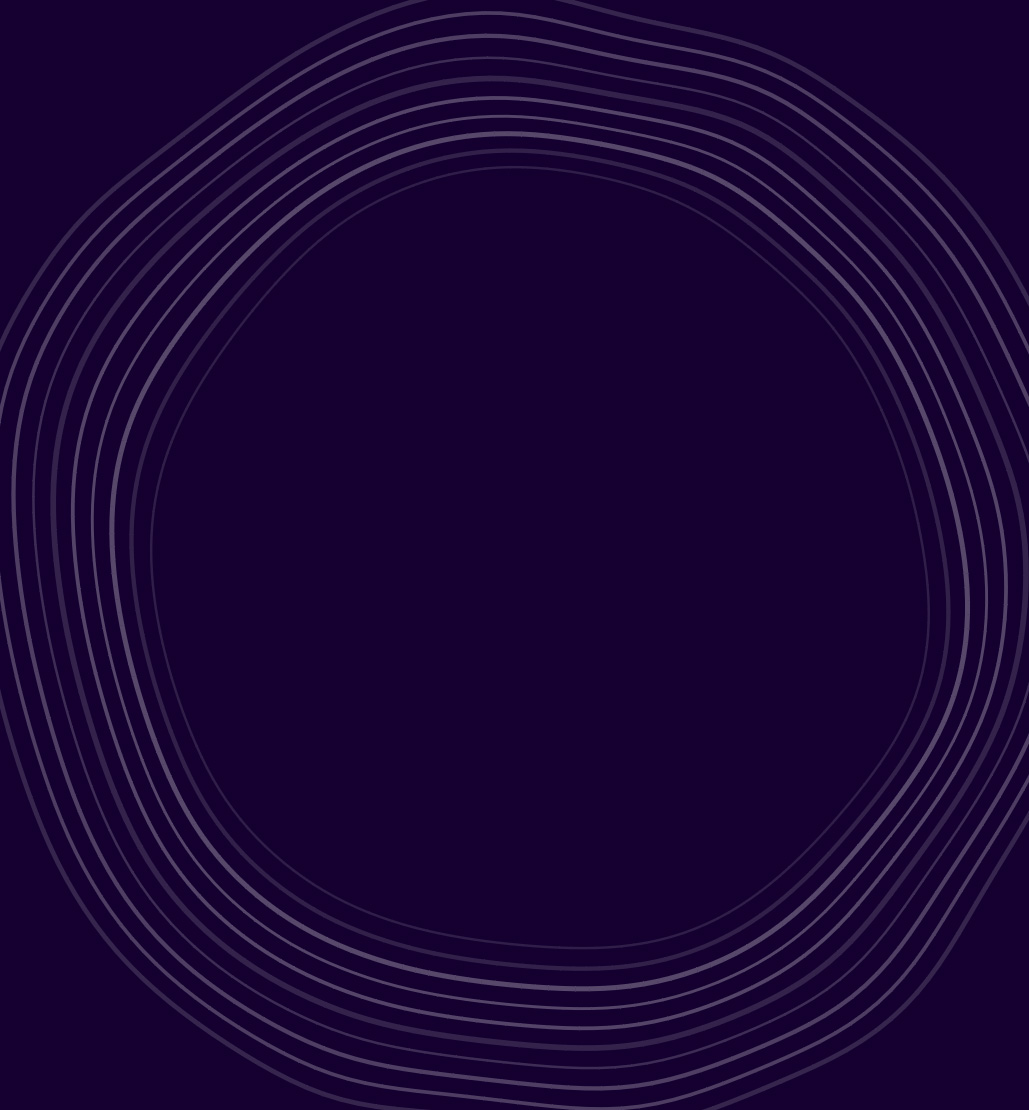
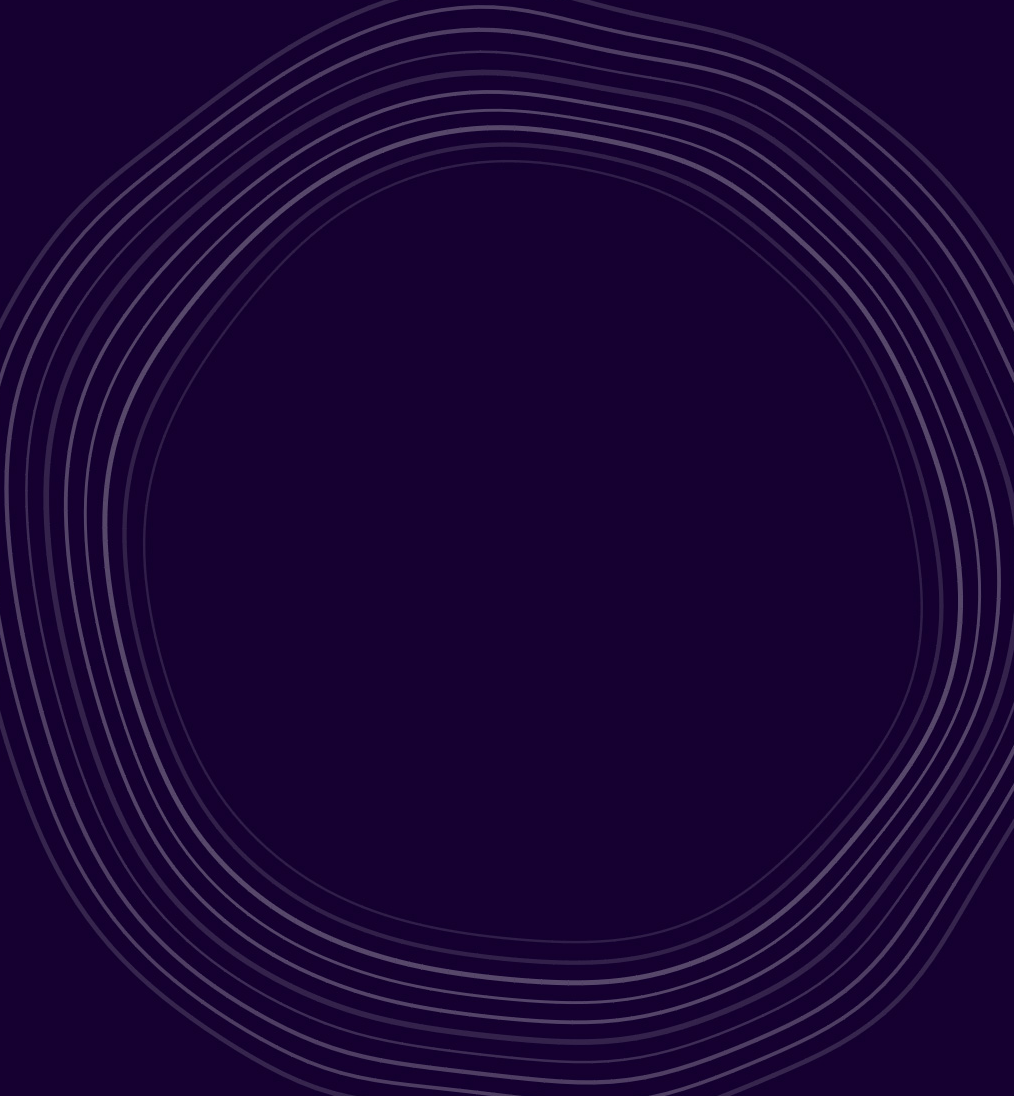
more design

Changed region(s): [[0.0, 0.0, 1.0, 1.0]]

diff --git a/client/styles/index.scss b/client/styles/index.scss
@@ -153,6 +153,54 @@ aside {
       font-family: 'Playfair';
       font-weight: 900;
     }
+
+    .time {
+      display: flex;
+      align-items: center;
+      margin-bottom: 15px;
+      font-size: 1rem;
+      svg {
+        display: block;
+        width: 25px;
+        height: 25px;
+        margin-right: 5px;
+      }
+    }
+
+    .back-btn {
+      width: 40px;
+      height: 40px;
+      border: 3px solid black;
+      border-radius: 50%;
+      position: relative;
+      &:after {
+        content: 'BACK';
+        position: absolute;
+        display: block;
+        top: 8px;
+        left: 45px;
+        font-size: 1rem;
+        font-weight: 700;
+        opacity: 0;
+        transform: translateX(5px);
+        transition: opacity 0.3s ease, transform 0.3s ease;
+        pointer-events: none;
+      }
+      svg {
+        display: block;
+        transition: transform 0.25s ease;
+      }
+
+      &:hover {
+        svg {
+          transform: scale(1.2);
+        }
+        &:after {
+          opacity: 1;
+          transform: translateX(0px);
+        }
+      }
+    }
   }
 }
 
@@ -184,7 +232,7 @@ ul {
 
   .item {
     overflow: hidden;
-    perspective: 700px;
+    // perspective: 700px;
 
     img {
       width: 100%;
@@ -193,8 +241,54 @@ ul {
       backface-visibility: hidden;
     }
 
+    .icon {
+      position: relative;
+      width: 100%;
+      height: 100%;
+      display: flex;
+      justify-content: center;
+      align-items: center;
+      transition: transform 0.25s ease-out;
+
+      &:before {
+        content: '';
+        position: absolute;
+        width: 100%;
+        height: 100%;
+        opacity: 0.05;
+      }
+
+      svg {
+        width: 40%;
+        opacity: 0.6;
+        // fill: white;
+      }
+
+      &.light {
+        svg {
+          fill: white;
+        }
+
+        &:before {
+          background: url('../media/images/hexagon-black.png') center center;
+          background-size: 20% auto;
+        }
+      }
+
+      &.dark {
+        svg {
+          fill: black;
+        }
+
+        &:before {
+          background: url('../media/images/hexagon-white.png') center center;
+          background-size: 20% auto;
+        }
+      }
+    }
+
     &:hover {
-      img {
+      img, .icon {
         transition: transform 0.35s $ease-out-back;
         transform: scale(1.15);
       }
@@ -220,7 +314,28 @@ ul {
     position: absolute;
     top: 0;
     width: 100%;
-    background: #efefef;
+    min-height: 100%;
+    background: #f8f8f8;
+    padding: 60px;
+
+    .content {
+      width: 100%;
+      max-width: 850px;
+
+      li {
+        &:before {
+          content: '–';
+          margin-right: 0.5em;
+        }
+      }
+    }
+
+    a {
+      color: currentColor;
+      &:hover {
+        text-decoration: none;
+      }
+    }
   }
 }
 
@@ -249,6 +364,11 @@ h3 {
   font-size: 1.8rem;
   margin-bottom: 1rem;
   margin-top: 1rem;
+}
+
+pre, code {
+  font-size: 1.4rem;
+  margin-bottom: 2rem;
 }
 
 .view {

diff --git a/client/src/views/ProjectPage.js b/client/src/views/ProjectPage.js
@@ -1,13 +1,17 @@
 import gsap from 'gsap';
 import { TEMPLATE } from '../config/constants';
 
+import hljs from 'highlight.js/lib/core';
+import javascript from 'highlight.js/lib/languages/javascript';
+hljs.registerLanguage('javascript', javascript);
+import 'highlight.js/styles/github.css';
+
 export default class ProjectPage {
   constructor(project, target) {
     console.log('new item', project, target);
 
-    this.target = target;
-
     const { template } = project;
+    this.target = target;
 
     switch (template) {
       case TEMPLATE.IFRAME:
@@ -26,25 +30,42 @@ export default class ProjectPage {
 
   createNoteTemplate(project, target) {
     const { title, content } = project;
-    const container = document.createElement('div');
-    const contentContainer = document.createElement('div');
-    const h1 = document.createElement('h1');
+    const onAnimComplete = () => {
+      const container = document.createElement('div');
+      const contentContainer = document.createElement('div');
+      const h1 = document.createElement('h1');
 
-    h1.textContent = title;
-    container.classList.add('content');
-    container.appendChild(h1);
-    container.appendChild(contentContainer);
+      h1.textContent = title;
+      container.classList.add('content');
+      container.appendChild(h1);
+      container.appendChild(contentContainer);
 
-    // add content
-    contentContainer.innerHTML = content;
+      // add content
+      contentContainer.innerHTML = content;
+      this.el.appendChild(container);
+
+      // setTimeout(() => {
+      //   hljs.initHighlightingOnLoad();
+      // }, 1000);
+      // console.log('yo');
+
+      document.querySelectorAll('pre code').forEach((block) => {
+        hljs.highlightBlock(block);
+      });
+
+      gsap.from(container, { duration: 0.7, y: 15, opacity: 0 });
+    };
 
     this.el = document.createElement('div');
     this.el.classList.add('project-note');
-    this.el.appendChild(container);
-
     target.appendChild(this.el);
 
-    console.log('crated');
+    gsap.from(this.el, {
+      duration: 0.6,
+      scale: 0.5,
+      ease: 'power4.inOut',
+      onComplete: onAnimComplete,
+    });
 
     gsap.from(this.el, { duration: 0.3, opacity: 0 });
   }
@@ -68,6 +89,7 @@ export default class ProjectPage {
       onComplete: () => {
         this.el.appendChild(iframe);
         iframe.contentWindow.focus();
+        gsap.from(iframe, { duration: 1, opacity: 0 });
       },
     });
 

diff --git a/client/src/views/Sidebar.js b/client/src/views/Sidebar.js
@@ -1,4 +1,8 @@
 import gsap from 'gsap';
+import { TEMPLATE } from '../config/constants';
+import backIcon from '../icons/back';
+import clockIcon from '../icons/clock';
+import { router } from '../framework/App';
 
 const NAV_IN_DELAY = 0.5;
 
@@ -27,23 +31,49 @@ class Sidebar {
     });
   }
 
-  showSidebar(title, description, date) {
+  showSidebar(project) {
+    const { title, description, published_at, template } = project;
+
     this.nav.classList.add('hide');
     this.sidebarEl = document.createElement('div');
-
-    const h3 = document.createElement('h3');
-    const p = document.createElement('p');
-    const dateEl = document.createElement('p');
-
-    dateEl.classList.add('publish-date');
-    h3.textContent = title;
-    p.textContent = description;
-    dateEl.textContent = date;
-
     this.sidebarEl.classList.add('sidebar');
-    this.sidebarEl.appendChild(h3);
-    this.sidebarEl.appendChild(p);
+
+    if (template === TEMPLATE.NOTE) {
+      const { content } = project;
+      const len = content.split(' ').length;
+      const readingTime = Math.ceil(len / 200);
+      const clockEl = document.createElement('div');
+      const label = document.createElement('span');
+      clockEl.innerHTML = clockIcon;
+      clockEl.appendChild(label);
+      clockEl.classList.add('time');
+      label.textContent = `${readingTime} minute read`;
+      this.sidebarEl.appendChild(clockEl);
+    } else {
+      const h3 = document.createElement('h3');
+      const p = document.createElement('p');
+
+      h3.textContent = title;
+      p.textContent = description;
+
+      this.sidebarEl.appendChild(h3);
+      this.sidebarEl.appendChild(p);
+    }
+
+    // date
+    const dateEl = document.createElement('p');
+    dateEl.classList.add('publish-date');
+    dateEl.textContent = published_at;
     this.sidebarEl.appendChild(dateEl);
+
+    // back button
+    const backBtn = document.createElement('button');
+    backBtn.innerHTML = backIcon;
+    backBtn.classList.add('back-btn');
+    this.sidebarEl.appendChild(backBtn);
+    backBtn.addEventListener('click', () => {
+      router.navigate('/');
+    });
 
     this.el.appendChild(this.sidebarEl);
 

diff --git a/client/src/icons/memo.js b/client/src/icons/memo.js
@@ -1,0 +1,3 @@
+export default `
+<svg viewBox="0 0 100 100"><switch><g><path d="M5273.1 2400.1v-2c0-2.8-5-4-9.7-4s-9.7 1.3-9.7 4v2c0 1.8.7 3.6 2 4.9l5 4.9c.3.3.4.6.4 1v6.4c0 .4.2.7.6.8l2.9.9c.5.1 1-.2 1-.8v-7.2c0-.4.2-.7.4-1l5.1-5c1.3-1.3 2-3.1 2-4.9zm-9.7-.1c-4.8 0-7.4-1.3-7.5-1.8.1-.5 2.7-1.8 7.5-1.8s7.3 1.3 7.5 1.8c-.2.5-2.7 1.8-7.5 1.8z"/><path d="M5268.4 2410.3c-.6 0-1 .4-1 1s.4 1 1 1h4.3c.6 0 1-.4 1-1s-.4-1-1-1h-4.3zM5272.7 2413.7h-4.3c-.6 0-1 .4-1 1s.4 1 1 1h4.3c.6 0 1-.4 1-1s-.4-1-1-1zM5272.7 2417h-4.3c-.6 0-1 .4-1 1s.4 1 1 1h4.3c.6 0 1-.4 1-1 0-.5-.4-1-1-1z"/><g><path d="M58.3 28.8c0-.4-.3-.7-.7-.7H19.5c-.4 0-.7.3-.7.7v6.6c0 .4.3.7.7.7h38.1c.4 0 .7-.3.7-.7v-6.6zM57.6 46.1H19.5c-.4 0-.7.3-.7.7v6.6c0 .4.3.7.7.7h38.1c.4 0 .7-.3.7-.7v-6.6c0-.4-.3-.7-.7-.7zM19.5 64.1c-.4 0-.7.3-.7.8v6.6c0 .4.3.8.7.8h31.4c.5-1.7 1.4-3.3 2.7-4.6l3.6-3.6H19.5z"/><path d="M50.1 81.8H9.2V18.1h59v34.8l6.7-6.7V16.4c0-2.7-2.2-4.9-4.9-4.9H7.4c-2.7 0-4.9 2.2-4.9 4.9v67.2c0 2.7 2.2 4.9 4.9 4.9h44.1c-1.1-1.8-1.7-3.9-1.5-6.2l.1-.5z"/><path d="M96.1 55l-7.5-7.5c-1.9-1.9-5.1-1.9-7 0l-24 24c-.9.9-1.4 2-1.4 3.2l-.5 8c-.1 1.4.4 2.8 1.4 3.8.9.9 2.2 1.4 3.5 1.4h.3l8-.5c1.2-.1 2.3-.6 3.2-1.4l24-24c1.9-1.9 1.9-5 0-7zM67.8 80.9l-5.5.3.3-5.5 2.2-2.2 5.1 5.1-2.1 2.3zm6.9-6.9l-5.1-5.1L85 53.4l5.1 5.1L74.7 74z"/></g></g></switch></svg>
+`;

diff --git a/client/src/views/GridItem.js b/client/src/views/GridItem.js
@@ -1,5 +1,6 @@
 import { router } from '../framework/App';
 import { TEMPLATE } from '../config/constants';
+import noteIcon from '../icons/memo.js';
 
 export default class GridItem {
   constructor({ project, target, isotope }) {
@@ -44,8 +45,13 @@ export default class GridItem {
 
     // add bg to note
     if (obj.template === TEMPLATE.NOTE) {
-      const { background } = obj.thumbnail;
+      const { background, theme } = obj.thumbnail;
+      const iconContainer = document.createElement('div');
+      iconContainer.classList.add('icon');
       container.style.background = background;
+      iconContainer.innerHTML = noteIcon;
+      iconContainer.classList.add(theme);
+      container.appendChild(iconContainer);
     }
 
     return container;

diff --git a/client/src/data/sitedata.js b/client/src/data/sitedata.js
@@ -18,13 +18,12 @@ export const projects = [
     id: 'lorem-ipsum-dolor',
     title: 'Lorem ipsum dolor sit amet, long title for a blog post',
     tags: [TAG.NOTE],
-    description:
-      'Sometimes it can be good just to write a few lines about the note',
     published_at: '10/05/2020',
     template: TEMPLATE.NOTE,
     content: note1,
     thumbnail: {
-      background: '#f2f2f2',
+      theme: 'dark',
+      background: '#8e8699',
       pattern: 'stripes',
     },
   },

diff --git a/client/src/icons/back.js b/client/src/icons/back.js
@@ -1,0 +1,3 @@
+export default `
+<svg viewBox="0 0 100 100"><path style="text-indent:0;text-transform:none;block-progression:tb" d="M23 50.005c.028.715.322 1.542.812 2.063l16 17c1.085.975 3.164 1.377 4.375.25 1.194-1.109 1.159-3.26-.03-4.375l-11.25-11.938H74a3 3 0 000-6H32.906l11.25-11.938c1.024-1.025 1.213-3.253.031-4.375-1.181-1.122-3.335-.764-4.375.25l-16 17A2.885 2.885 0 0023 50.006z" overflow="visible" color="#000"/></svg>
+`;

diff --git a/client/src/views/HomeView.js b/client/src/views/HomeView.js
@@ -62,9 +62,8 @@ export default class HomeView extends View {
 
     if (projectId) {
       const project = projects.find((project) => project.id === projectId);
-      const { title, description, published_at } = project;
       this.projectPage = new ProjectPage(project, this.el);
-      Sidebar.showSidebar(title, description, published_at);
+      Sidebar.showSidebar(project);
       webgl.openProject();
     }
 

diff --git a/client/src/icons/clock.js b/client/src/icons/clock.js
@@ -1,0 +1,3 @@
+export default `
+<svg viewBox="0 0 64 64"><path d="M32 5C17.112 5 5 17.112 5 32s12.112 27 27 27 27-12.112 27-27S46.888 5 32 5zm10.707 37.707a.997.997 0 01-1.414 0l-10-10A1.01 1.01 0 0131 32V14a1 1 0 012 0v17.586l9.707 9.707a.999.999 0 010 1.414z"/></svg>
+`;

diff --git a/client/notes/lorem_ipsum_test.md b/client/notes/lorem_ipsum_test.md
@@ -1,5 +1,3 @@
-# README #
-
 This README would normally document whatever steps are necessary to get your application up and running.
 
 ### What is this repository for? ###
@@ -27,3 +25,14 @@ This README would normally document whatever steps are necessary to get your app
 
 * Repo owner or admin
 * Other community or team contact
+
+```
+this.iso = new Isotope(msnryContainer, {
+  // options
+  percentPosition: true,
+  itemSelector: '.item',
+  columnWidth: '.grid-sizer',
+  stagger: 50,
+});
+this.createGridItems(msnryContainer, this.iso);
+```
